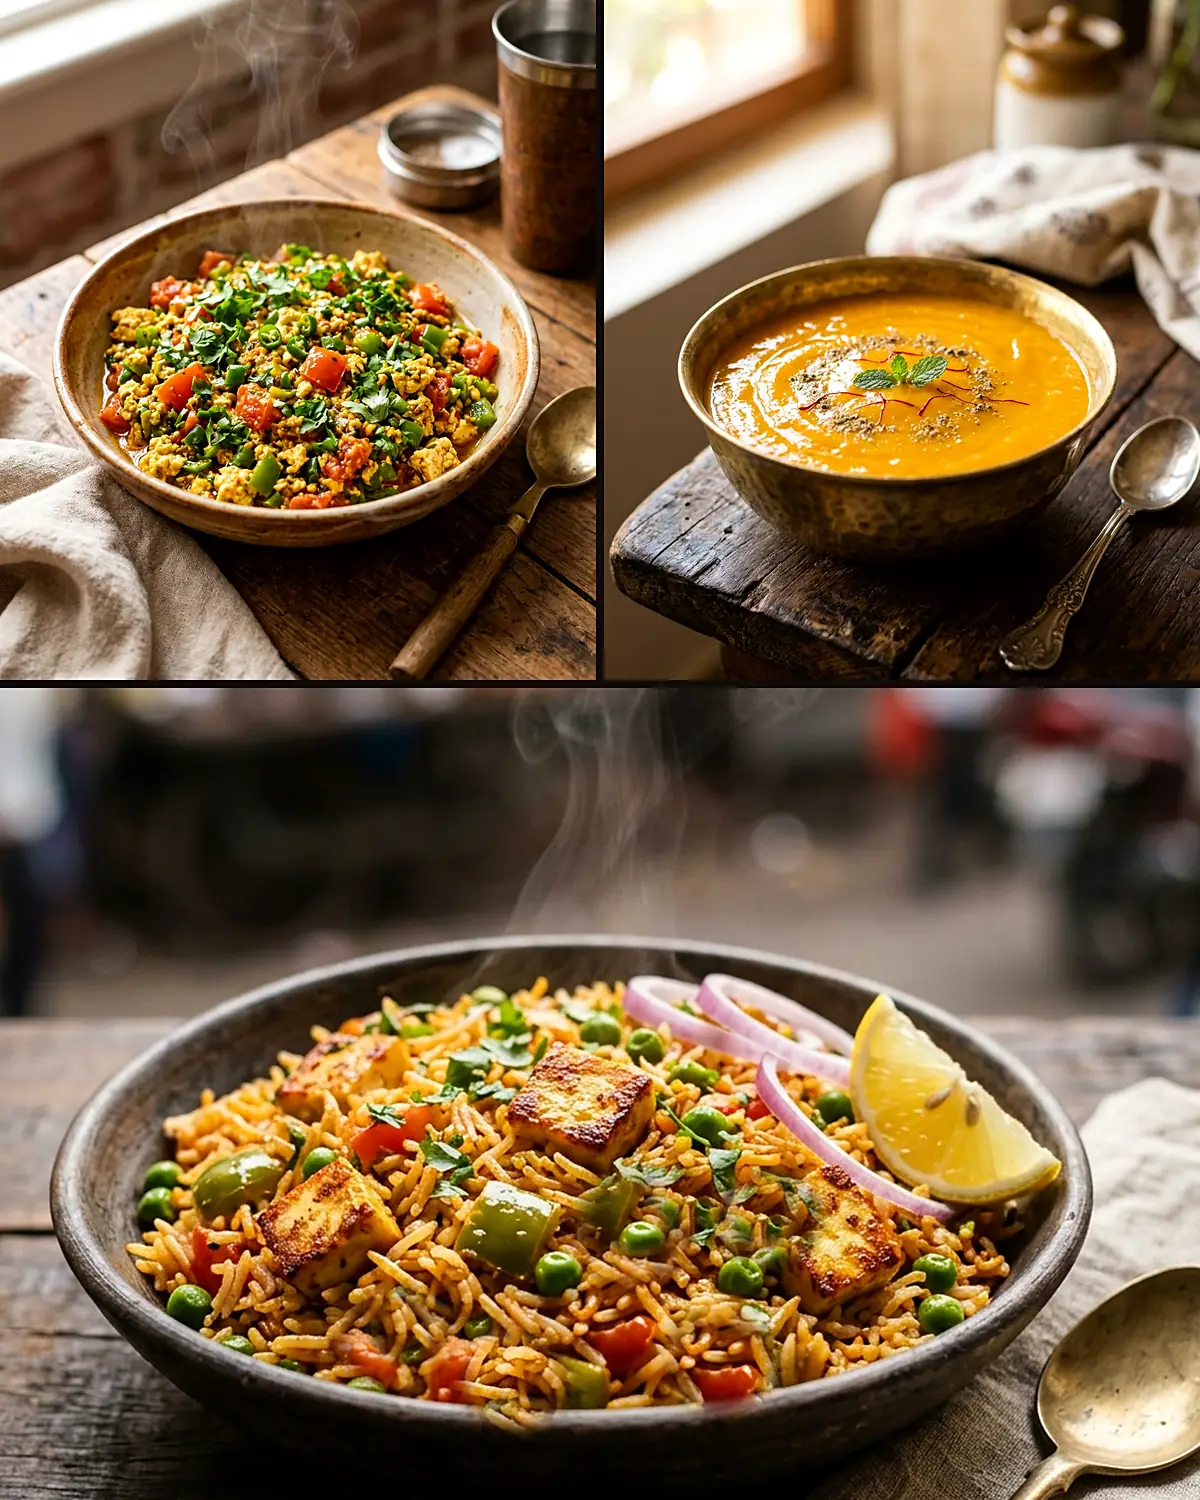
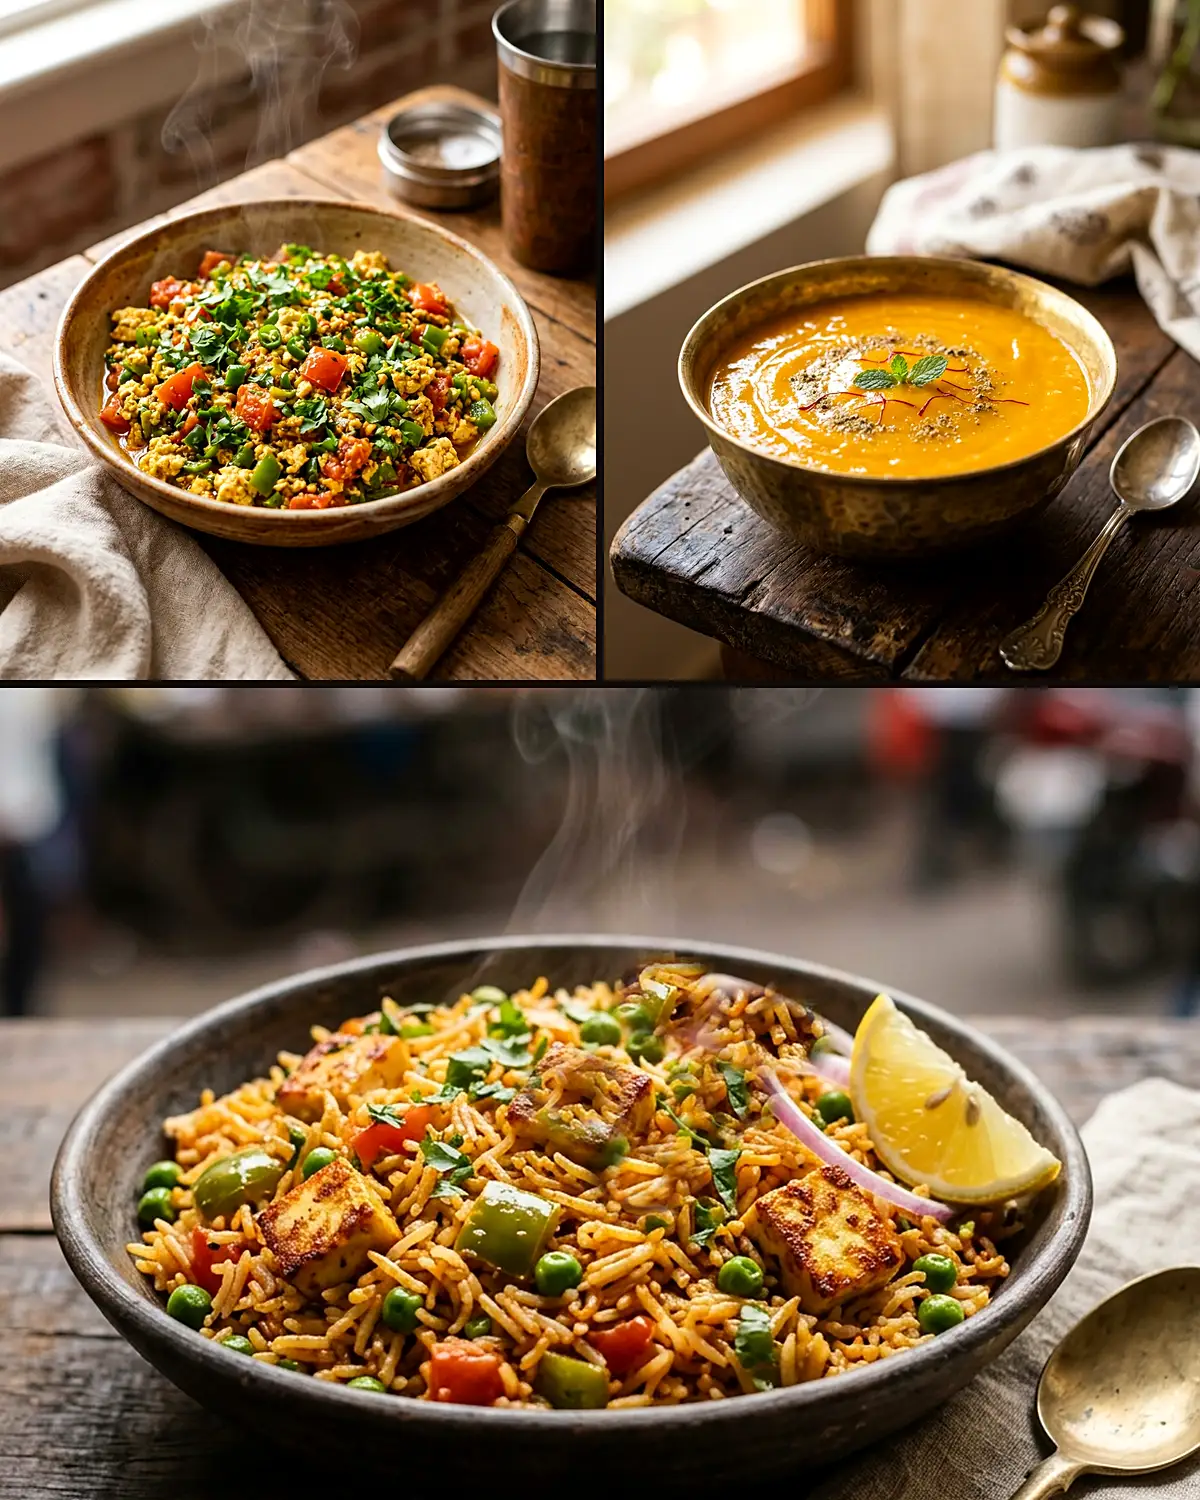
Fix Veg Biryani homepage animation realism & remove paneer/onions from all Tawa Pulao combos

Changed region(s): [[0.4317, 0.6133, 0.7092, 0.9507], [0.2775, 0.8587, 0.4933, 0.9813]]

diff --git a/pdp/pdp-data.js b/pdp/pdp-data.js
@@ -288,7 +288,7 @@
       }
     },
     'tawa-pulao': {
-      imgVersion: 6,
+      imgVersion: 7,
       cards: [
         { id: 'serving',   type: 'lifestyle', image: 'serving',   pouchAzimuth: 20,  serving: true,  alt: 'A rustic handcrafted ceramic dish of vibrant Mumbai Street-Style Tawa Pulao with fluffy spiced basmati, golden-seared paneer cubes, green peas, capsicum, onion rings and a fresh lemon wedge' },
         { id: 'hero',      type: 'lifestyle', image: 'hero',      pouchAzimuth: 25,  serving: false, alt: '{name} pouch standing on a warm rustic wooden table beside a bowl of vibrant Tawa Pulao, in soft window light' },
@@ -707,7 +707,7 @@
     var lo = Math.min.apply(null, mins), hi = Math.max.apply(null, mins);
     var cfg = build(id, { min: lo === hi ? lo : lo + '–' + hi });
     cfg.flat = true;
-    cfg.imgVersion = 4;
+    cfg.imgVersion = 5;
     cfg.dir = 'pdp/combos/' + id + '/';
     cfg.tint = 'var(--pdp-tint-' + dishes[0] + ')';      // the first dish's colours
     cfg.ink = 'var(--pdp-ink-' + dishes[0] + ')';

diff --git a/index.html b/index.html
@@ -296,8 +296,8 @@
   <script src="hero-products.js" defer></script>
   <script src="scenes/motion.js" defer></script>
   <script src="heroes/switcher.js?v=2" defer></script>
-  <script src="scenes/scene-data.js" defer></script>
-  <script src="scenes/hiw-scene.js?v=2" defer></script>
+  <script src="scenes/scene-data.js?v=2" defer></script>
+  <script src="scenes/hiw-scene.js?v=3" defer></script>
   <script src="heroes/home.js" defer></script>
 </body>
 </html>

diff --git a/scenes/scene-data.js b/scenes/scene-data.js
@@ -60,7 +60,7 @@ const SCENES = {
     bowl: 'scenes/processed/veg-biryani/bowl.webp',
     dry: 'scenes/processed/veg-biryani/dry.webp',
     wet: 'scenes/processed/veg-biryani/wet.webp',
-    ready: 'scenes/processed/veg-biryani/ready.webp',
+    ready: 'scenes/processed/veg-biryani/ready.webp?v=2',
     size: [815, 563],
     opening: { cx: 49.82, cy: 32.14, rx: 42.7, ry: 26.83 },
     bowlBottom: 94.68,

diff --git a/tools/list_combos.py b/tools/list_combos.py
@@ -1,0 +1,19 @@
+import re, json
+from pathlib import Path
+
+ROOT = Path(__file__).resolve().parent.parent
+main_js = (ROOT / 'main.js').read_text(encoding='utf-8')
+
+combos = re.findall(r"id:\s*'([a-z0-9-]+)',\s*title:\s*'((?:[^'\\]|\\.)*)',\s*category:\s*'Combos'", main_js)
+
+print(f"Total combos: {len(combos)}")
+by_type = {}
+for cid, title in combos:
+    clean_title = title.replace("\\'", "'")
+    m = re.search(r'\(([^)]+)\)', clean_title)
+    items = m.group(1).split('+') if m else [clean_title]
+    items = [i.strip() for i in items]
+    is_jain = cid.startswith('jain-')
+    base_cid = cid[5:] if is_jain else cid
+    print(f"[{cid}] (Jain={is_jain}): {items}")
+

diff --git a/tools/build_clean_combo_editorial.py b/tools/build_clean_combo_editorial.py
@@ -95,9 +95,9 @@ def compose_editorial_3dish(dish1, dish2, dish3):
 
 def save_webp(im, path, limit):
     path.parent.mkdir(parents=True, exist_ok=True)
-    for q in (85, 82, 78, 74, 70, 66, 62, 58, 54, 50, 46, 42):
+    for q in (82, 78, 74, 70, 66, 62, 58, 54, 50, 46, 42):
         buf = io.BytesIO()
-        im.save(buf, 'WEBP', quality=q, method=6)
+        im.save(buf, 'WEBP', quality=q, method=4)
         if buf.tell() <= limit:
             break
     path.write_bytes(buf.getvalue())

diff --git a/tools/compose_combo_plates.py b/tools/compose_combo_plates.py
@@ -127,3 +127,4 @@ def build_combo_serving(cid, dishes):
     save_webp(im_1200, gal_dir / 'serving-1200.webp', 180 * 1024)
     save_webp(im_800, gal_dir / 'serving-800.webp', 90 * 1024)
     print(f"[{cid}] Composed serving: 1200w={s1200//1024}KB (q={q1200}), 800w={s800//1024}KB (q={q800})")
+

diff --git a/tools/combo_prompts.py b/tools/combo_prompts.py
@@ -328,3 +328,4 @@ Roasted papad, delicate rising steam, cozy dining lighting."""
 Warm soft phulkas, lemon wedge, delicate rising steam, warm natural lighting."""
     }
 }
+

diff --git a/tools/save_combo_serving.py b/tools/save_combo_serving.py
@@ -46,3 +46,4 @@ if __name__ == '__main__':
         src = sys.argv[1]
         cids = sys.argv[2].split(',')
         process_combo_image(src, cids)
+

diff --git a/tools/inspect_combo_plates.py b/tools/inspect_combo_plates.py
@@ -40,3 +40,4 @@ if missing:
     print("Missing details:", set(missing))
 else:
     print("ALL individual product serving plates exist!")
+

diff --git a/tools/clean_tawa_pulao.py b/tools/clean_tawa_pulao.py
@@ -67,3 +67,4 @@ def clean_tawa_pulao():
 
 if __name__ == '__main__':
     clean_tawa_pulao()
+
